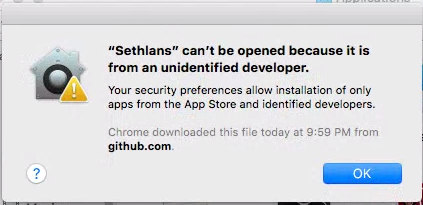
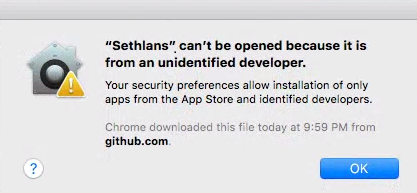
adding more screenshots

diff --git a/docs/installation.md b/docs/installation.md
@@ -31,15 +31,28 @@ The following dependencies are recommended for **SERVER** mode:
 - ffmpeg
 
 ## macOS Initial Setup
-
- - Open Sethlans dmg.
+ - Extract Sethlans DMG from downloaded zip file.
+ - Open Sethlans DMG.
  - Copy Sethlans to Applications folder
- - Double-click Sethlans
+ ![copy](assets/mac/copy.PNG)
+ - Double-click on Sethlans
+ - Acknowledge the unidentified developer notice
+ 
+ ![notice](assets/mac/unidentified.PNG)
+ - Navigate to System Preferences > Security and Privacy
+ - Click on "Open Anyway"
+
+ ![settingsnadprivacy](assets/mac/settingsandprivacy.PNG)
+ - Navigate to Applications. Double-click on Sethlans
+ - Click Open
+  
+ ![open](assets/mac/sethlans_open.PNG)
 
 ## Sethlans Setup
 On Windows and macOS systems the Sethlans system tray icon provides a shortcut that automatically opens a browser to Sethlans.
 
  - Via a browser, navigate to https://localhost:7443
+ ![initalsetupscreen](assets/setup/setup_screen.PNG)
  - Once the Sethlans Setup Wizard appears you'll have the option to select a mode.
 	 - **SERVER** - Creation of render projects, management of render queues, provides notifications for projects, manages nodes.
 	 - **NODE** - Receives rendering tasks from the server, returns finished products back to the server.
